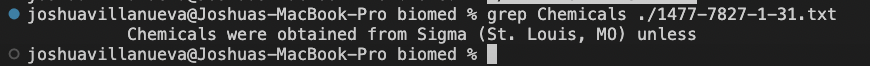
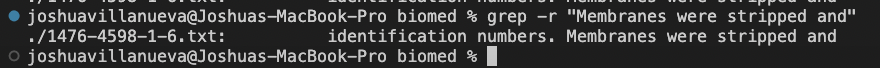
update topics

diff --git a/Lab Report 3 - Commands.md b/Lab Report 3 - Commands.md
@@ -8,7 +8,7 @@
 # grep -r "(St. Louis, MO)"
 ![Example1.2](Lab3-img/Lab3.1.2.png)
 
-# grep Chemicals ./1477-7827-1-31.txt
+# grep-r "Membranes were stripped and"
 ![Example1.3](Lab3-img/Lab3.1.3.png)
 
 # grep Sigma ./1477-7827-1-31.txt
@@ -17,8 +17,15 @@
 # grep inhibitor ./1477-7827-1-31.txt
 ![Example2.2](Lab3-img/Lab3.2.2.png)
 
-# grep -v "antibodies" 1475-2875-1-5.txt
+
+# grep Chemicals ./1477-7827-1-31.txt
 ![Example2.3](Lab3-img/Lab3.2.3.png)
+
+# grep -v "parasites" 1475-2875-1-5.txt
 ![Example3.1](Lab3-img/Lab3.3.1.png)
+
+# grep -v "parasites" 1475-2875-1-5.txt 1471-213X-3-2.txt
 ![Example3.2](Lab3-img/Lab3.3.2.png)
+
+# grep -v "antibodies" 1475-2875-1-5.txt
 ![Example3.3](Lab3-img/Lab3.3.3.png)
